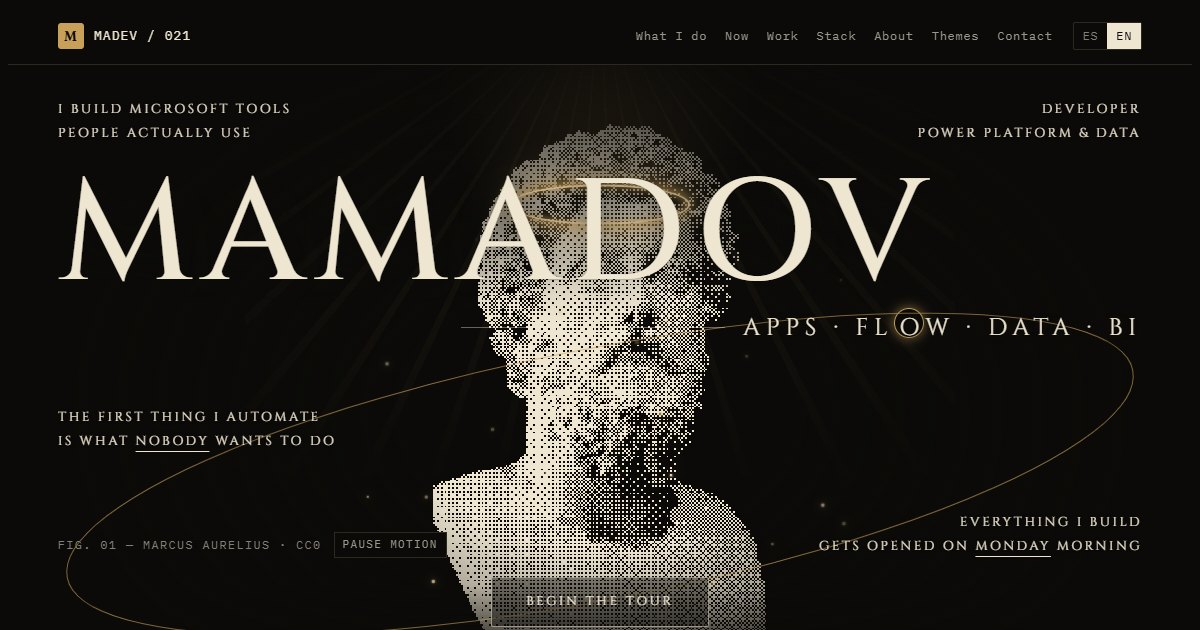
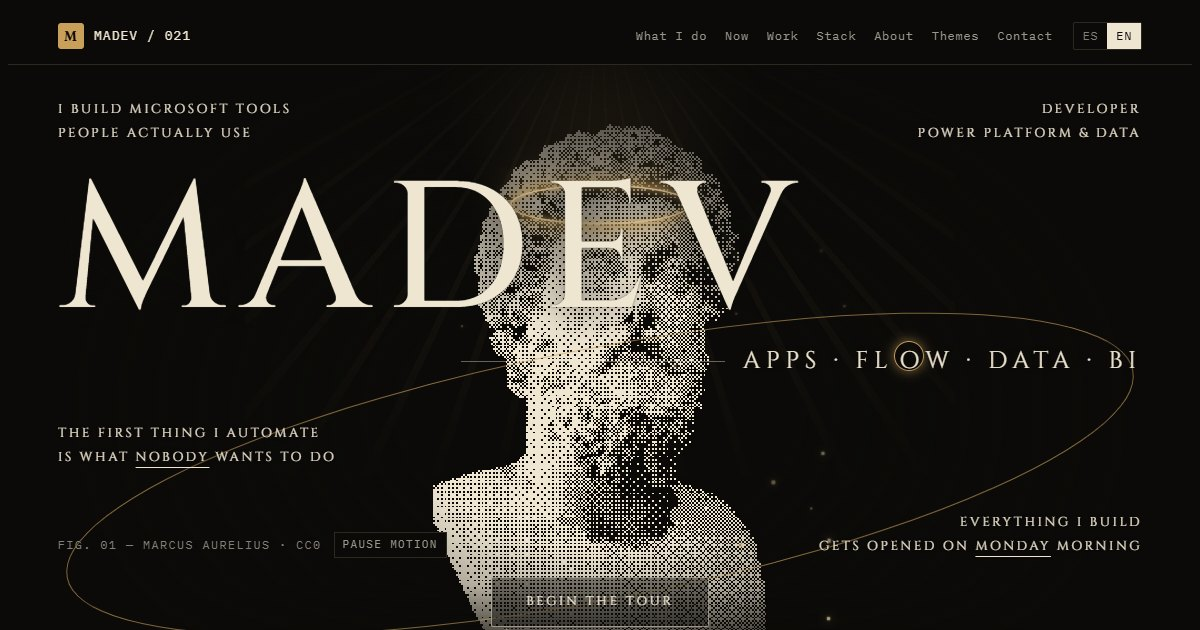
feat(hero): show MADEV instead of MAMADOV
Larger Cinzel size so the shorter name fills the line; og image and README grid refreshed.

diff --git a/index.html b/index.html
@@ -36,7 +36,7 @@
 <link rel="preload" href="assets/fonts/fraunces-latin.woff2" as="font" type="font/woff2" crossorigin>
 <link rel="stylesheet" href="https://fonts.googleapis.com/css2?family=IBM+Plex+Mono:wght@400;500&family=Hanken+Grotesk:wght@400;500;600&display=swap">
 <link rel="stylesheet" href="https://fonts.googleapis.com/css2?family=Shippori+Mincho+B1:wght@400;600&family=Chakra+Petch:wght@300;400;600&display=swap" media="print" onload="this.media='all'">
-<link rel="stylesheet" href="css/main.css?v=9f82d686">
+<link rel="stylesheet" href="css/main.css?v=da0c9e70">
 </head>
 <body>
 <a class="skip" href="#top"><span lang="es">Saltar al contenido</span><span lang="en">Skip to content</span></a>
@@ -71,7 +71,7 @@
     <div class="wrap hv">
       <p class="corner tl" data-in style="--i:0"><span lang="es">Construyo herramientas Microsoft<br>que la gente usa de verdad</span><span lang="en">I build Microsoft tools<br>people actually use</span></p>
       <p class="corner tr" data-in style="--i:1"><span lang="es">Desarrollador<br>Power Platform y datos</span><span lang="en">Developer<br>Power Platform &amp; data</span></p>
-      <h1 id="name" data-in style="--i:2" translate="no"><span aria-hidden="true">MAMADOV</span><span class="vh">Mamadou Diallo Ndoye — <span lang="es">desarrollador Power Platform y datos</span><span lang="en">Power Platform &amp; data developer</span></span></h1>
+      <h1 id="name" data-in style="--i:2" translate="no"><span aria-hidden="true">MADEV</span><span class="vh">Mamadou Diallo Ndoye — <span lang="es">desarrollador Power Platform y datos</span><span lang="en">Power Platform &amp; data developer</span></span></h1>
       <p class="hv-line" data-in style="--i:3"><span class="rule" aria-hidden="true"></span><span aria-hidden="true">Apps · Fl<span class="ringo">o</span>w · Data · BI</span><span class="vh">Apps, Flow, Data, BI</span></p>
       <p class="corner ml" data-in style="--i:4"><span lang="es">Lo primero que automatizo<br>es lo que <u>nadie</u> quiere hacer</span><span lang="en">The first thing I automate<br>is what <u>nobody</u> wants to do</span></p>
       <p class="corner br" data-in style="--i:5"><span lang="es">Todo lo que construyo<br>se abre <u>el lunes</u> por la mañana</span><span lang="en">Everything I build<br>gets opened on <u>Monday</u> morning</span></p>

diff --git a/css/main.css b/css/main.css
@@ -335,7 +335,7 @@ html[data-font] .corner{font-family:var(--f-mono);font-size:11.5px}
 .corner u{text-decoration-thickness:1px;text-underline-offset:.45em}
 .corner.tl{grid-area:1/1}
 .corner.tr{grid-area:1/2;justify-self:end;text-align:right}
-.hero h1{grid-column:1/-1;grid-row:2;font-family:var(--f-hero);font-weight:500;font-variation-settings:normal;font-size:clamp(52px,12vw,176px);letter-spacing:.06em;line-height:.92;margin:clamp(14px,4vh,40px) 0 0;color:var(--bone);text-shadow:0 0 42px color-mix(in srgb,var(--ink) 85%,transparent),0 0 2px color-mix(in srgb,var(--ink) 60%,transparent)}
+.hero h1{grid-column:1/-1;grid-row:2;font-family:var(--f-hero);font-weight:500;font-variation-settings:normal;font-size:clamp(64px,15vw,216px);letter-spacing:.08em;line-height:.92;margin:clamp(14px,4vh,40px) 0 0;color:var(--bone);text-shadow:0 0 42px color-mix(in srgb,var(--ink) 85%,transparent),0 0 2px color-mix(in srgb,var(--ink) 60%,transparent)}
 html[data-font] .hero h1{font-weight:400;letter-spacing:.02em}
 .hv-line{grid-column:1/-1;grid-row:3;justify-self:end;display:flex;align-items:center;gap:18px;margin:6px 0 0;text-shadow:0 0 18px var(--ink),0 0 4px var(--ink);font-family:var(--f-hero);font-size:clamp(15px,2vw,26px);letter-spacing:.24em;text-transform:uppercase;color:var(--bone)}
 .hv-line .rule{width:clamp(80px,22vw,380px);height:1px;background:color-mix(in srgb,var(--bone) 40%,transparent)}
